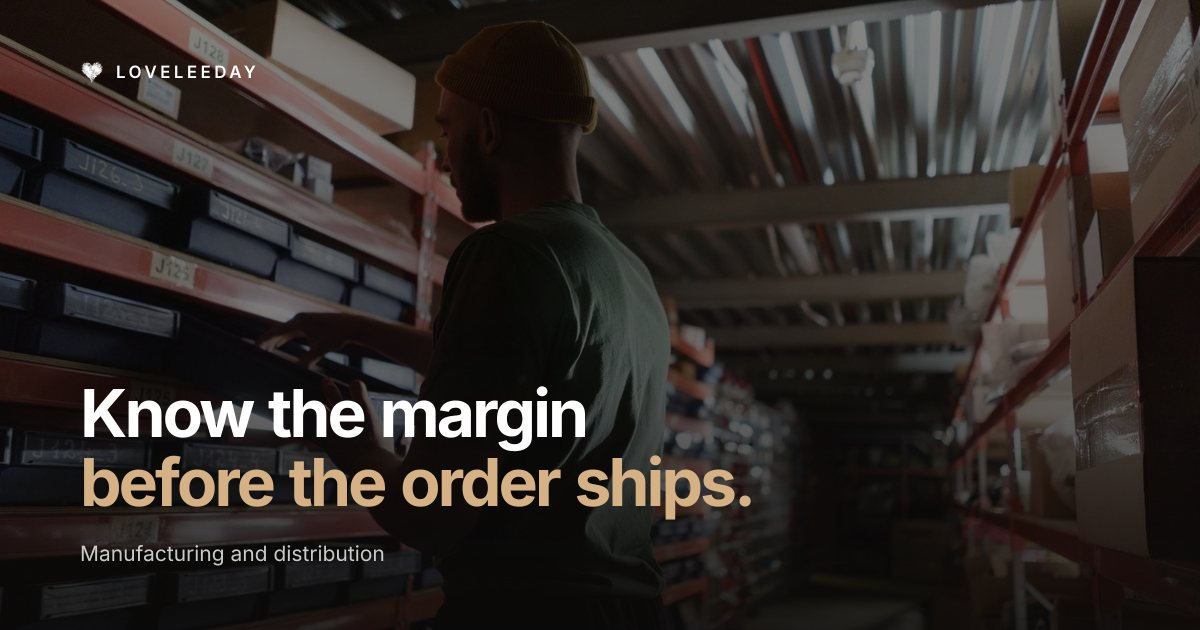
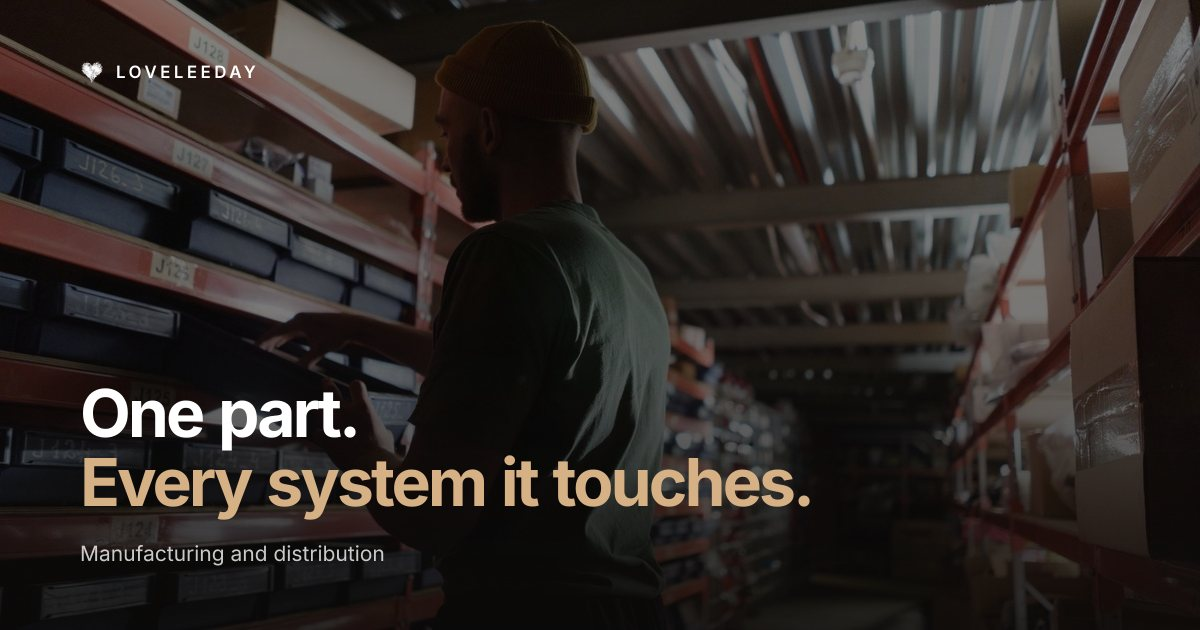
Integrations generator emits calm accent cards and links their sheet; consistency check accepts --brand accent cards; manufacturing share card refreshed
Generator still copies a stale head/lead (tracked in the platform review brief); the approved integrations.html is kept as is.

Changed region(s): [[0.0617, 0.6032, 0.6783, 0.8444]]

diff --git a/public/site/industries/manufacturing.html b/public/site/industries/manufacturing.html
@@ -1,4 +1,4 @@
-<!DOCTYPE html><html lang="en"><head><meta charset="utf-8"><meta name="viewport" content="width=device-width,initial-scale=1"><meta name="description" content="See how LOVELEEDAY resolves one item across your ERP, purchasing and quality records and answers open-order questions by plant, with a sample view and the systems on our connection list."><meta name="theme-color" content="#fafafa"><title>Manufacturing and distribution — LOVELEEDAY</title><link rel="canonical" href="https://loveleedaystudios.com/industries/manufacturing"><meta property="og:type" content="website"><meta property="og:site_name" content="LOVELEEDAY"><meta property="og:title" content="Manufacturing and distribution — LOVELEEDAY"><meta property="og:description" content="See how LOVELEEDAY resolves one item across your ERP, purchasing and quality records and answers open-order questions by plant, with a sample view and the systems on our connection list."><meta property="og:url" content="https://loveleedaystudios.com/industries/manufacturing"><meta property="og:image" content="https://loveleedaystudios.com/site/assets/share/industries-manufacturing.jpg?v=50280e3e73"><meta property="og:image:width" content="1200"><meta property="og:image:height" content="630"><meta property="og:image:alt" content="LOVELEEDAY — One part. Every system it touches."><meta property="og:locale" content="en_US"><meta name="twitter:card" content="summary_large_image"><meta name="twitter:title" content="Manufacturing and distribution — LOVELEEDAY"><meta name="twitter:description" content="See how LOVELEEDAY resolves one item across your ERP, purchasing and quality records and answers open-order questions by plant, with a sample view and the systems on our connection list."><meta name="twitter:image" content="https://loveleedaystudios.com/site/assets/share/industries-manufacturing.jpg?v=50280e3e73"><meta name="robots" content="index,follow,max-image-preview:large"><meta name="author" content="LOVELEEDAY"><script type="application/ld+json">{"@context":"https://schema.org","@type":"WebPage","url":"https://loveleedaystudios.com/industries/manufacturing","name":"Manufacturing and distribution — LOVELEEDAY","description":"See how LOVELEEDAY reads your ERP, price lists and customer history to answer margin questions, with a sample view and the systems on our connection list.","isPartOf":{"@type":"WebSite","name":"LOVELEEDAY","url":"https://loveleedaystudios.com/"}}</script><link rel="icon" href="/site/assets/icon.svg?v=4" type="image/svg+xml"><link rel="icon" href="/site/assets/favicon-192.png?v=4" sizes="192x192" type="image/png"><link rel="icon" href="/site/assets/favicon-32.png?v=4" sizes="32x32" type="image/png"><link rel="icon" href="/site/assets/favicon-16.png?v=4" sizes="16x16" type="image/png"><link rel="apple-touch-icon" href="/site/assets/apple-icon.png?v=4"><link rel="shortcut icon" href="/favicon.ico?v=4"><link rel="stylesheet" href="/site/assets/site.css?v=899338f22f"><link rel="stylesheet" href="/site/assets/chrome.css?v=64fdd21c37"><link rel="stylesheet" href="/site/assets/industries/industries.css?v=dc1b283c41"><link rel="stylesheet" href="/site/assets/pub.css?v=be04b2bf39"><link rel="stylesheet" href="/site/assets/fix/manufacturing.css?v=aaaaf716af"><style>.pub .sys{display:grid;grid-template-columns:repeat(3,1fr);gap:14px}
+<!DOCTYPE html><html lang="en"><head><meta charset="utf-8"><meta name="viewport" content="width=device-width,initial-scale=1"><meta name="description" content="See how LOVELEEDAY resolves one item across your ERP, purchasing and quality records and answers open-order questions by plant, with a sample view and the systems on our connection list."><meta name="theme-color" content="#fafafa"><title>Manufacturing and distribution — LOVELEEDAY</title><link rel="canonical" href="https://loveleedaystudios.com/industries/manufacturing"><meta property="og:type" content="website"><meta property="og:site_name" content="LOVELEEDAY"><meta property="og:title" content="Manufacturing and distribution — LOVELEEDAY"><meta property="og:description" content="See how LOVELEEDAY resolves one item across your ERP, purchasing and quality records and answers open-order questions by plant, with a sample view and the systems on our connection list."><meta property="og:url" content="https://loveleedaystudios.com/industries/manufacturing"><meta property="og:image" content="https://loveleedaystudios.com/site/assets/share/industries-manufacturing.jpg?v=8ea2a78c4e"><meta property="og:image:width" content="1200"><meta property="og:image:height" content="630"><meta property="og:image:alt" content="LOVELEEDAY — One part. Every system it touches."><meta property="og:locale" content="en_US"><meta name="twitter:card" content="summary_large_image"><meta name="twitter:title" content="Manufacturing and distribution — LOVELEEDAY"><meta name="twitter:description" content="See how LOVELEEDAY resolves one item across your ERP, purchasing and quality records and answers open-order questions by plant, with a sample view and the systems on our connection list."><meta name="twitter:image" content="https://loveleedaystudios.com/site/assets/share/industries-manufacturing.jpg?v=8ea2a78c4e"><meta name="robots" content="index,follow,max-image-preview:large"><meta name="author" content="LOVELEEDAY"><script type="application/ld+json">{"@context":"https://schema.org","@type":"WebPage","url":"https://loveleedaystudios.com/industries/manufacturing","name":"Manufacturing and distribution — LOVELEEDAY","description":"See how LOVELEEDAY reads your ERP, price lists and customer history to answer margin questions, with a sample view and the systems on our connection list.","isPartOf":{"@type":"WebSite","name":"LOVELEEDAY","url":"https://loveleedaystudios.com/"}}</script><link rel="icon" href="/site/assets/icon.svg?v=4" type="image/svg+xml"><link rel="icon" href="/site/assets/favicon-192.png?v=4" sizes="192x192" type="image/png"><link rel="icon" href="/site/assets/favicon-32.png?v=4" sizes="32x32" type="image/png"><link rel="icon" href="/site/assets/favicon-16.png?v=4" sizes="16x16" type="image/png"><link rel="apple-touch-icon" href="/site/assets/apple-icon.png?v=4"><link rel="shortcut icon" href="/favicon.ico?v=4"><link rel="stylesheet" href="/site/assets/site.css?v=899338f22f"><link rel="stylesheet" href="/site/assets/chrome.css?v=64fdd21c37"><link rel="stylesheet" href="/site/assets/industries/industries.css?v=dc1b283c41"><link rel="stylesheet" href="/site/assets/pub.css?v=be04b2bf39"><link rel="stylesheet" href="/site/assets/fix/manufacturing.css?v=aaaaf716af"><style>.pub .sys{display:grid;grid-template-columns:repeat(3,1fr);gap:14px}
 .pub .sys .c{border:1px solid var(--line);border-radius:14px;padding:18px;display:flex;gap:14px;align-items:flex-start}
 .pub .sys .c b{display:block;font-size:14px;font-weight:550}
 .pub .sys .c span.t{font-size:12px;color:var(--muted);line-height:1.5}
